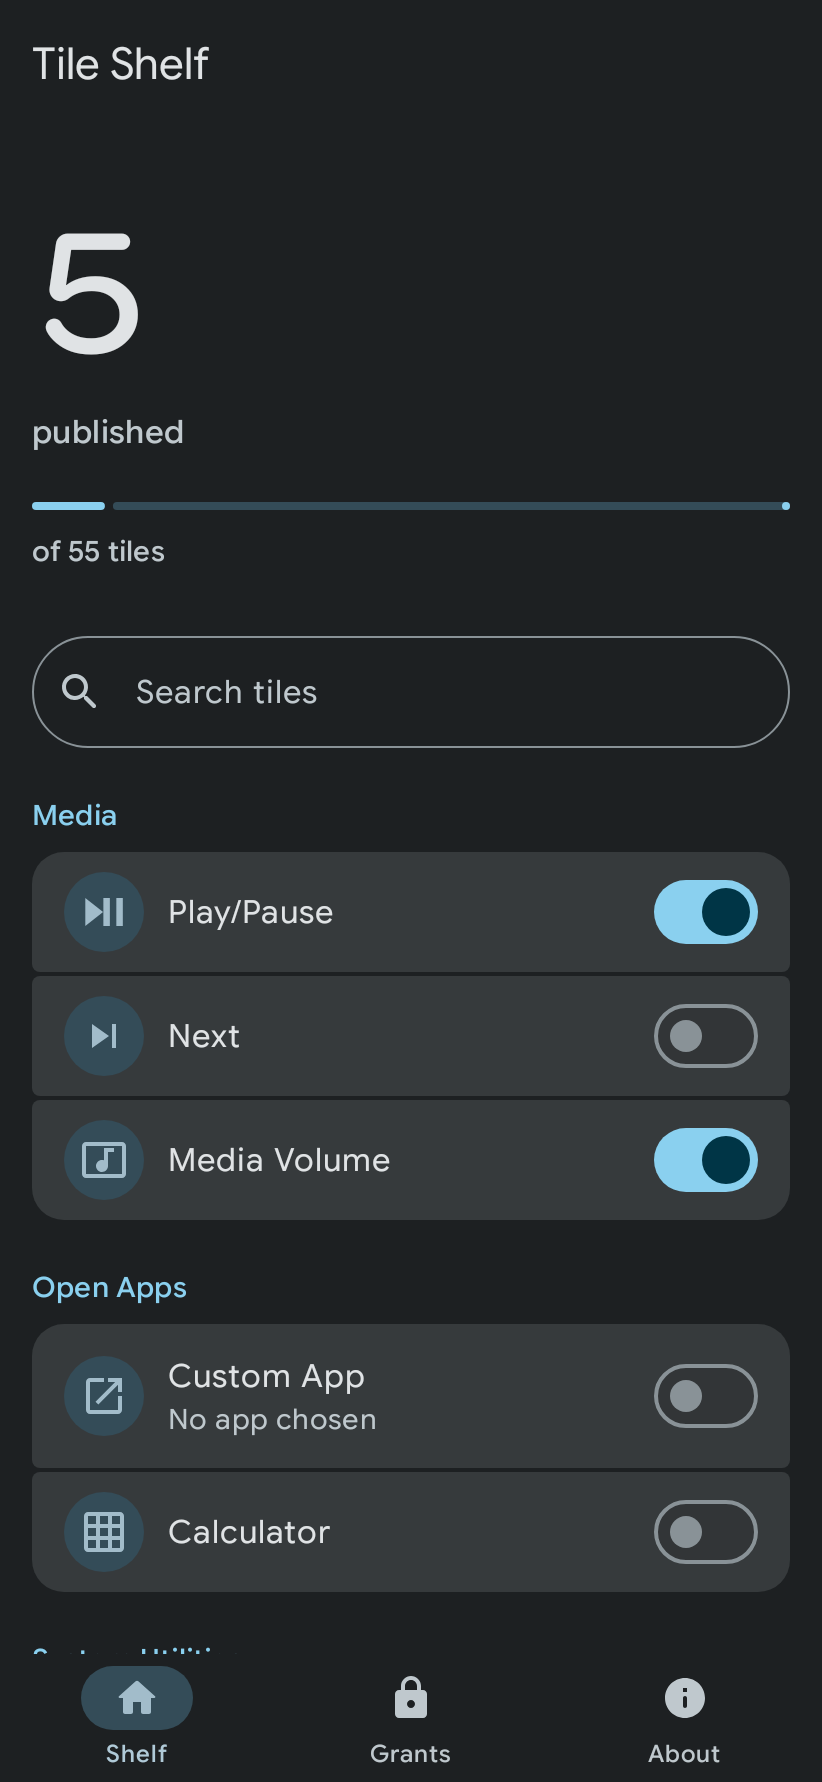
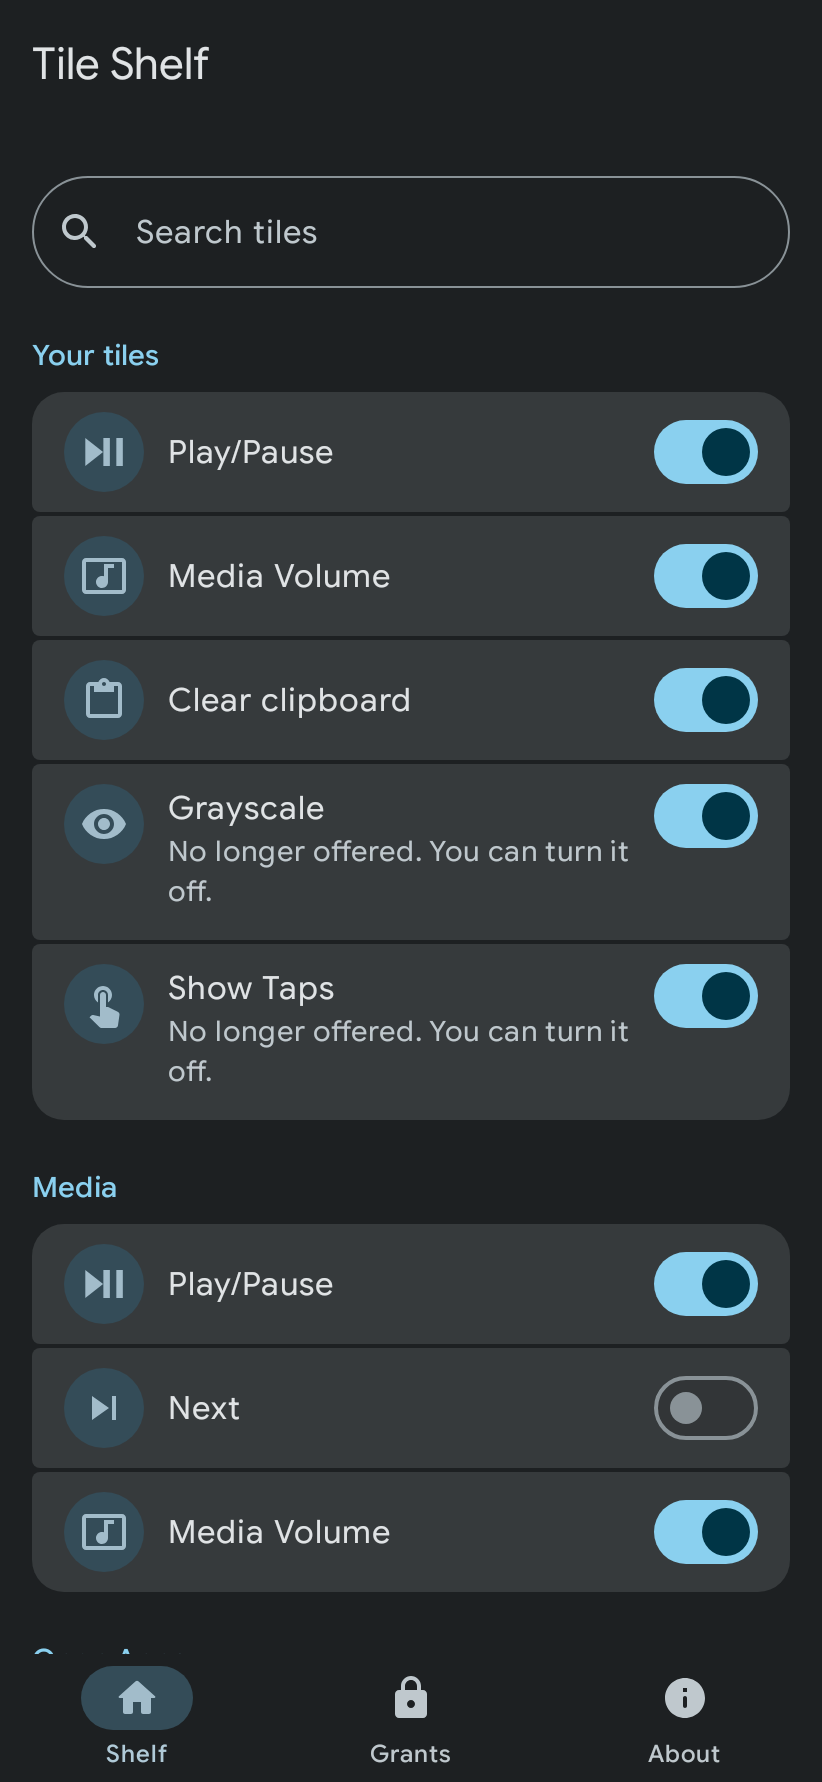
Replace the shelf's published count with a getting-started card and Your tiles
The big count and wavy bar told the user nothing they could act on,
implied every tile should be on, and left room for four rows. The
shelf now opens with search, a short how-it-works card while nothing
is on, and a Your tiles group with the tiles that are on. Screens say
on and off instead of publish.

diff --git a/app/src/main/java/com/tileshelf/app/ui/ShelfScreen.kt b/app/src/main/java/com/tileshelf/app/ui/ShelfScreen.kt
@@ -20,7 +20,6 @@ import androidx.compose.material3.ButtonDefaults
 import androidx.compose.material3.FilledTonalButton
 import androidx.compose.material3.Icon
 import androidx.compose.material3.IconButton
-import androidx.compose.material3.LinearWavyProgressIndicator
 import androidx.compose.material3.ListItemDefaults
 import androidx.compose.material3.MaterialTheme
 import androidx.compose.material3.OutlinedTextField
@@ -39,7 +38,6 @@ import androidx.compose.ui.text.input.ImeAction
 import com.tileshelf.app.R
 import com.tileshelf.app.catalog.RowSwitch
 import com.tileshelf.app.ui.theme.spacing
-import com.tileshelf.app.ui.theme.tabular
 
 @Composable
 fun ShelfScreen(
@@ -66,26 +64,20 @@ fun ShelfScreen(
 @Composable
 private fun ReadyShelf(model: ShelfModel.Ready, padding: PaddingValues, actions: ScreenActions) {
     val space = MaterialTheme.spacing
-    val haptic = LocalHapticFeedback.current
     LazyColumn(
         modifier = Modifier.fillMaxSize(),
         contentPadding = PaddingValues(
             start = space.margin,
             end = space.margin,
-            top = padding.calculateTopPadding() + space.space400,
+            top = padding.calculateTopPadding() + space.space300,
             bottom = padding.calculateBottomPadding() + space.space600,
         ),
     ) {
         item {
-            PublishedHero(model.publishedCount, model.catalogSize)
-        }
-        item {
             OutlinedTextField(
                 value = model.query,
                 onValueChange = actions.onQuery,
-                modifier = Modifier
-                    .fillMaxWidth()
-                    .padding(top = space.space400),
+                modifier = Modifier.fillMaxWidth(),
                 textStyle = MaterialTheme.typography.bodyLarge,
                 placeholder = {
                     Text(
@@ -110,6 +102,9 @@ private fun ReadyShelf(model: ShelfModel.Ready, padding: PaddingValues, actions:
                 keyboardOptions = KeyboardOptions(imeAction = ImeAction.Search),
                 shape = MaterialTheme.shapes.extraLarge,
             )
+        }
+        if (model.query.isBlank() && model.yours.isEmpty()) {
+            item { GettingStarted() }
         }
         if (model.query.isNotBlank() && model.groups.isEmpty()) {
             item {
@@ -140,69 +135,19 @@ private fun ReadyShelf(model: ShelfModel.Ready, padding: PaddingValues, actions:
                 }
             }
         }
-        model.groups.forEach { group ->
-            item {
-                Text(
-                    group.title,
-                    style = MaterialTheme.typography.labelLarge,
-                    color = MaterialTheme.colorScheme.primary,
-                    modifier = Modifier.padding(top = space.space300, bottom = space.space100),
-                )
+        if (model.yours.isNotEmpty()) {
+            item { GroupLabel(stringResource(R.string.your_tiles)) }
+            model.yours.forEachIndexed { index, row ->
+                item(key = "yours:${row.tile.name}") {
+                    ShelfRow(row, index, model.yours.size, actions)
+                }
             }
+        }
+        model.groups.forEach { group ->
+            item { GroupLabel(group.title) }
             group.rows.forEachIndexed { index, row ->
                 item(key = row.tile.name) {
-                    val checked = when (val rowSwitch = row.switch) {
-                        is RowSwitch.Offered -> rowSwitch.published
-                        RowSwitch.TurnOffOnly -> true
-                    }
-                    SegmentedListItem(
-                        onClick = { actions.onOpen(row.tile) },
-                        shapes = ListItemDefaults.segmentedShapes(index = index, count = group.rows.size),
-                        colors = ListItemDefaults.segmentedColors(
-                            containerColor = MaterialTheme.colorScheme.surfaceBright,
-                        ),
-                        leadingContent = {
-                            Box(
-                                Modifier
-                                    .size(space.space500)
-                                    .clip(CircleShape)
-                                    .background(MaterialTheme.colorScheme.secondaryContainer),
-                                contentAlignment = Alignment.Center,
-                            ) {
-                                Icon(
-                                    painterResource(row.iconRes),
-                                    contentDescription = null,
-                                    tint = MaterialTheme.colorScheme.onSecondaryContainer,
-                                    modifier = Modifier.size(space.space300),
-                                )
-                            }
-                        },
-                        supportingContent = row.supporting?.let { note -> { Text(note) } },
-                        trailingContent = {
-                            Switch(
-                                checked = checked,
-                                onCheckedChange = { want ->
-                                    if (row.switch is RowSwitch.TurnOffOnly && want) return@Switch
-                                    haptic.performHapticFeedback(
-                                        if (want) HapticFeedbackType.ToggleOn else HapticFeedbackType.ToggleOff,
-                                    )
-                                    actions.onToggle(row.tile, want)
-                                },
-                            )
-                        },
-                    ) {
-                        Text(
-                            row.title,
-                            style = if (checked) {
-                                MaterialTheme.typography.bodyLargeEmphasized
-                            } else {
-                                MaterialTheme.typography.bodyLarge
-                            },
-                        )
-                    }
-                    if (index < group.rows.lastIndex) {
-                        Spacer(Modifier.height(ListItemDefaults.SegmentedGap))
-                    }
+                    ShelfRow(row, index, group.rows.size, actions)
                 }
             }
         }
@@ -210,36 +155,91 @@ private fun ReadyShelf(model: ShelfModel.Ready, padding: PaddingValues, actions:
 }
 
 @Composable
-private fun PublishedHero(published: Int, catalogSize: Int) {
-    val type = MaterialTheme.typography
+private fun GroupLabel(title: String) {
     val space = MaterialTheme.spacing
-    val display = type.displayLargeEmphasized
-    val fraction = if (catalogSize == 0) 0f else published.toFloat() / catalogSize.toFloat()
-    Column {
+    Text(
+        title,
+        style = MaterialTheme.typography.labelLarge,
+        color = MaterialTheme.colorScheme.primary,
+        modifier = Modifier.padding(top = space.space300, bottom = space.space100),
+    )
+}
+
+@Composable
+private fun GettingStarted() {
+    val space = MaterialTheme.spacing
+    Column(
+        Modifier
+            .fillMaxWidth()
+            .padding(top = space.space300)
+            .clip(MaterialTheme.shapes.large)
+            .background(MaterialTheme.colorScheme.surfaceBright)
+            .padding(space.space200),
+    ) {
         Text(
-            published.toString(),
-            style = display.tabular.copy(
-                fontSize = display.fontSize * 1.45f,
-                lineHeight = display.lineHeight * 1.45f,
-            ),
+            stringResource(R.string.getting_started_title),
+            style = MaterialTheme.typography.titleMedium,
         )
         Text(
-            stringResource(R.string.published_label),
-            style = type.titleMedium,
+            stringResource(R.string.getting_started_body),
+            style = MaterialTheme.typography.bodyMedium,
             color = MaterialTheme.colorScheme.onSurfaceVariant,
             modifier = Modifier.padding(top = space.space050),
         )
-        LinearWavyProgressIndicator(
-            progress = { fraction },
-            modifier = Modifier
-                .fillMaxWidth()
-                .padding(top = space.space250),
-        )
+    }
+}
+
+@Composable
+private fun ShelfRow(row: ShelfRowModel, index: Int, count: Int, actions: ScreenActions) {
+    val space = MaterialTheme.spacing
+    val haptic = LocalHapticFeedback.current
+    val checked = row.isOn
+    SegmentedListItem(
+        onClick = { actions.onOpen(row.tile) },
+        shapes = ListItemDefaults.segmentedShapes(index = index, count = count),
+        colors = ListItemDefaults.segmentedColors(
+            containerColor = MaterialTheme.colorScheme.surfaceBright,
+        ),
+        leadingContent = {
+            Box(
+                Modifier
+                    .size(space.space500)
+                    .clip(CircleShape)
+                    .background(MaterialTheme.colorScheme.secondaryContainer),
+                contentAlignment = Alignment.Center,
+            ) {
+                Icon(
+                    painterResource(row.iconRes),
+                    contentDescription = null,
+                    tint = MaterialTheme.colorScheme.onSecondaryContainer,
+                    modifier = Modifier.size(space.space300),
+                )
+            }
+        },
+        supportingContent = row.supporting?.let { note -> { Text(note) } },
+        trailingContent = {
+            Switch(
+                checked = checked,
+                onCheckedChange = { want ->
+                    if (row.switch is RowSwitch.TurnOffOnly && want) return@Switch
+                    haptic.performHapticFeedback(
+                        if (want) HapticFeedbackType.ToggleOn else HapticFeedbackType.ToggleOff,
+                    )
+                    actions.onToggle(row.tile, want)
+                },
+            )
+        },
+    ) {
         Text(
-            stringResource(R.string.published_of, catalogSize),
-            style = type.labelLarge,
-            color = MaterialTheme.colorScheme.onSurfaceVariant,
-            modifier = Modifier.padding(top = space.space100),
+            row.title,
+            style = if (checked) {
+                MaterialTheme.typography.bodyLargeEmphasized
+            } else {
+                MaterialTheme.typography.bodyLarge
+            },
         )
+    }
+    if (index < count - 1) {
+        Spacer(Modifier.height(ListItemDefaults.SegmentedGap))
     }
 }

diff --git a/app/src/test/java/com/tileshelf/app/ScreenMatrixTest.kt b/app/src/test/java/com/tileshelf/app/ScreenMatrixTest.kt
@@ -41,6 +41,7 @@ import org.robolectric.annotation.GraphicsMode
 class ScreenMatrixTest {
     private val screens: Map<String, @Composable () -> Unit> = mapOf(
         "shelf" to { page(Screen.Shelf(shelfReady()), RootTab.Shelf) },
+        "shelf_first_run" to { page(Screen.Shelf(shelfReady(firstRun = true)), RootTab.Shelf) },
         "shelf_filter_empty" to { page(Screen.Shelf(shelfReady(query = "zzzz", groups = emptyList())), RootTab.Shelf) },
         "shelf_loading" to { page(Screen.Shelf(ShelfModel.Loading), RootTab.Shelf) },
         "shelf_failed" to { page(Screen.Shelf(ShelfModel.Failed), RootTab.Shelf) },
@@ -110,6 +111,7 @@ class ScreenMatrixTest {
     private fun shelfReady(
         query: String = "",
         groups: List<ShelfGroupModel>? = null,
+        firstRun: Boolean = false,
     ): ShelfModel.Ready {
         val built = groups ?: listOf(
             ShelfGroupModel(
@@ -155,12 +157,17 @@ class ScreenMatrixTest {
                 ),
             ),
         )
+        val shown = if (firstRun) built.map { group -> group.copy(rows = group.rows.map(::turnedOff)) } else built
         return ShelfModel.Ready(
-            publishedCount = 5,
-            catalogSize = 55,
             query = query,
-            groups = built,
+            yours = if (query.isBlank()) shown.flatMap { it.rows }.filter { it.isOn } else emptyList(),
+            groups = shown,
         )
+    }
+
+    private fun turnedOff(row: ShelfRowModel): ShelfRowModel = when (row.switch) {
+        is RowSwitch.Offered -> row.copy(switch = RowSwitch.Offered(false))
+        RowSwitch.TurnOffOnly -> row.copy(switch = RowSwitch.Offered(false), supporting = null)
     }
 
     private fun keepScreen() = DetailModel.KeepScreen(

diff --git a/app/src/main/java/com/tileshelf/app/ui/Assemble.kt b/app/src/main/java/com/tileshelf/app/ui/Assemble.kt
@@ -6,7 +6,6 @@ import com.tileshelf.app.catalog.RowSwitch
 import com.tileshelf.app.catalog.ShelfSection
 import com.tileshelf.app.catalog.Tile
 import com.tileshelf.app.catalog.shelfEntries
-import com.tileshelf.app.catalog.storedTrueTiles
 
 fun assembleShelf(
     values: Map<String, *>,
@@ -20,24 +19,23 @@ fun assembleShelf(
     noAppNote: String,
 ): ShelfModel.Ready {
     val needle = query.trim()
-    val entries = shelfEntries(sdk, values)
+    val rows = shelfEntries(sdk, values)
+        .map { entry -> entry.toRow(titleOf, iconOf, customLabel, turnOffNote, noAppNote) }
     val groups = ShelfSection.entries.mapNotNull { section ->
         val named = sectionTitle(section)
         val sectionMatches = needle.isNotEmpty() && named.contains(needle, ignoreCase = true)
-        val rows = entries
+        val matching = rows
             .filter { it.tile.section == section }
-            .map { entry -> entry.toRow(titleOf, iconOf, customLabel, turnOffNote, noAppNote) }
             .filter { row ->
                 needle.isEmpty() || sectionMatches ||
                     row.title.contains(needle, ignoreCase = true) ||
                     row.supporting?.contains(needle, ignoreCase = true) == true
             }
-        if (rows.isEmpty()) null else ShelfGroupModel(named, rows)
+        if (matching.isEmpty()) null else ShelfGroupModel(named, matching)
     }
     return ShelfModel.Ready(
-        publishedCount = storedTrueTiles(values).size,
-        catalogSize = Tile.entries.size,
         query = query,
+        yours = if (needle.isEmpty()) rows.filter { it.isOn } else emptyList(),
         groups = groups,
     )
 }

diff --git a/app/src/test/java/com/tileshelf/app/AssembleShelfTest.kt b/app/src/test/java/com/tileshelf/app/AssembleShelfTest.kt
@@ -1,0 +1,42 @@
+package com.tileshelf.app
+
+import com.tileshelf.app.catalog.Tile
+import com.tileshelf.app.ui.ShelfModel
+import com.tileshelf.app.ui.assembleShelf
+import org.junit.Assert.assertEquals
+import org.junit.Assert.assertTrue
+import org.junit.Test
+
+class AssembleShelfTest {
+    private fun shelf(values: Map<String, *>, query: String = ""): ShelfModel.Ready = assembleShelf(
+        values = values,
+        query = query,
+        sdk = 36,
+        titleOf = { it.name },
+        sectionTitle = { it.name },
+        iconOf = { 0 },
+        customLabel = { null },
+        turnOffNote = "turn off",
+        noAppNote = "no app",
+    )
+
+    @Test
+    fun nothing_on_means_no_tiles_of_your_own() {
+        assertTrue(shelf(emptyMap<String, Any>()).yours.isEmpty())
+    }
+
+    @Test
+    fun turned_on_tiles_are_listed_in_catalog_order_and_stay_in_their_sections() {
+        val model = shelf(mapOf(Tile.ClearClipboard.key to true, Tile.PlayPause.key to true))
+        assertEquals(listOf(Tile.PlayPause, Tile.ClearClipboard), model.yours.map { it.tile })
+        val inSections = model.groups.flatMap { it.rows }.map { it.tile }
+        assertTrue(inSections.containsAll(listOf(Tile.PlayPause, Tile.ClearClipboard)))
+    }
+
+    @Test
+    fun a_search_hides_your_tiles_so_results_show_once() {
+        val model = shelf(mapOf(Tile.PlayPause.key to true), query = "PlayPause")
+        assertTrue(model.yours.isEmpty())
+        assertEquals(listOf(Tile.PlayPause), model.groups.flatMap { it.rows }.map { it.tile })
+    }
+}

diff --git a/app/src/main/java/com/tileshelf/app/ui/Models.kt b/app/src/main/java/com/tileshelf/app/ui/Models.kt
@@ -11,9 +11,8 @@ sealed interface ShelfModel {
     data object Loading : ShelfModel
     data object Failed : ShelfModel
     data class Ready(
-        val publishedCount: Int,
-        val catalogSize: Int,
         val query: String,
+        val yours: List<ShelfRowModel>,
         val groups: List<ShelfGroupModel>,
     ) : ShelfModel
 }
@@ -26,7 +25,13 @@ data class ShelfRowModel(
     val supporting: String?,
     val iconRes: Int,
     val switch: RowSwitch,
-)
+) {
+    val isOn: Boolean
+        get() = when (switch) {
+            is RowSwitch.Offered -> switch.published
+            RowSwitch.TurnOffOnly -> true
+        }
+}
 
 sealed interface DetailModel {
     val title: String
